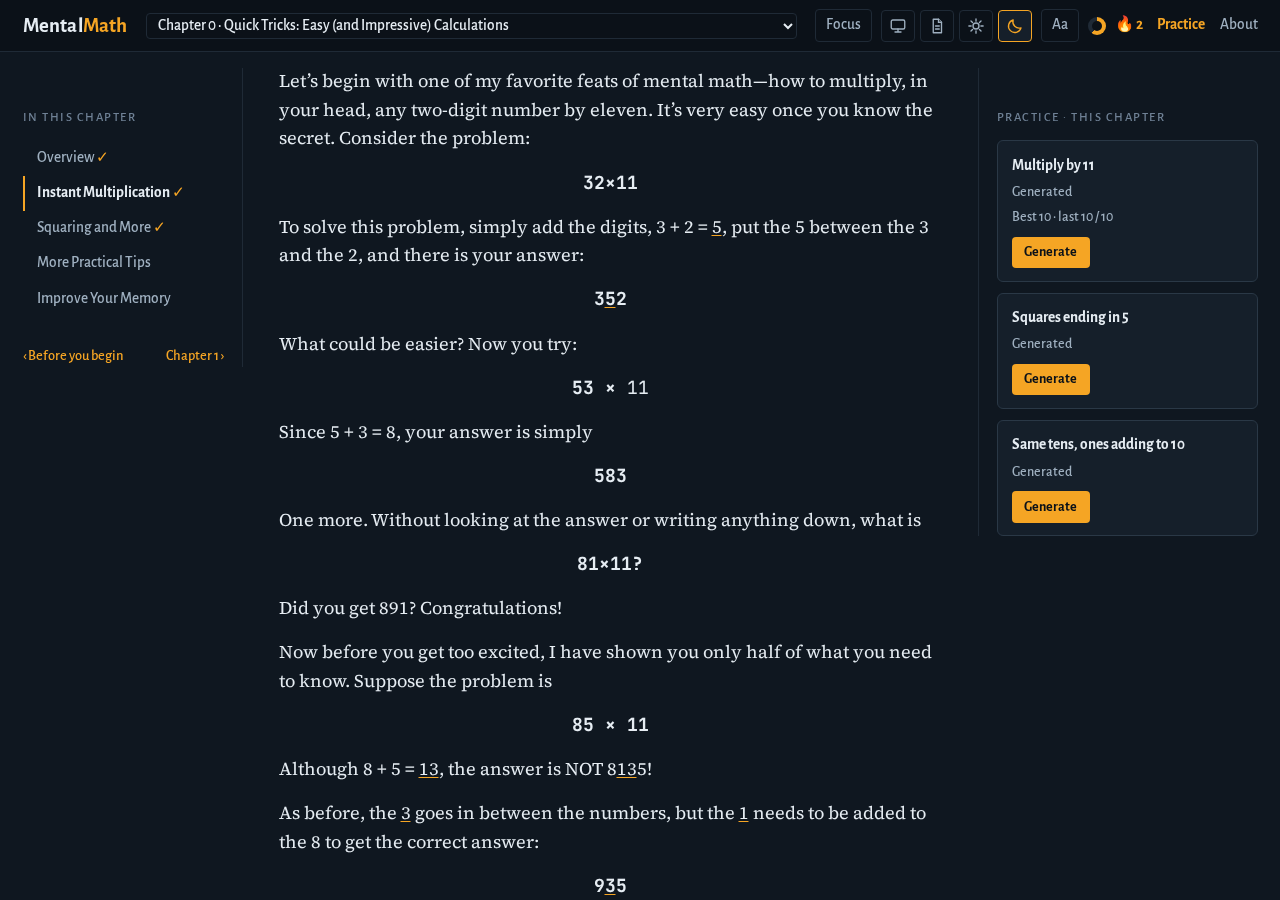
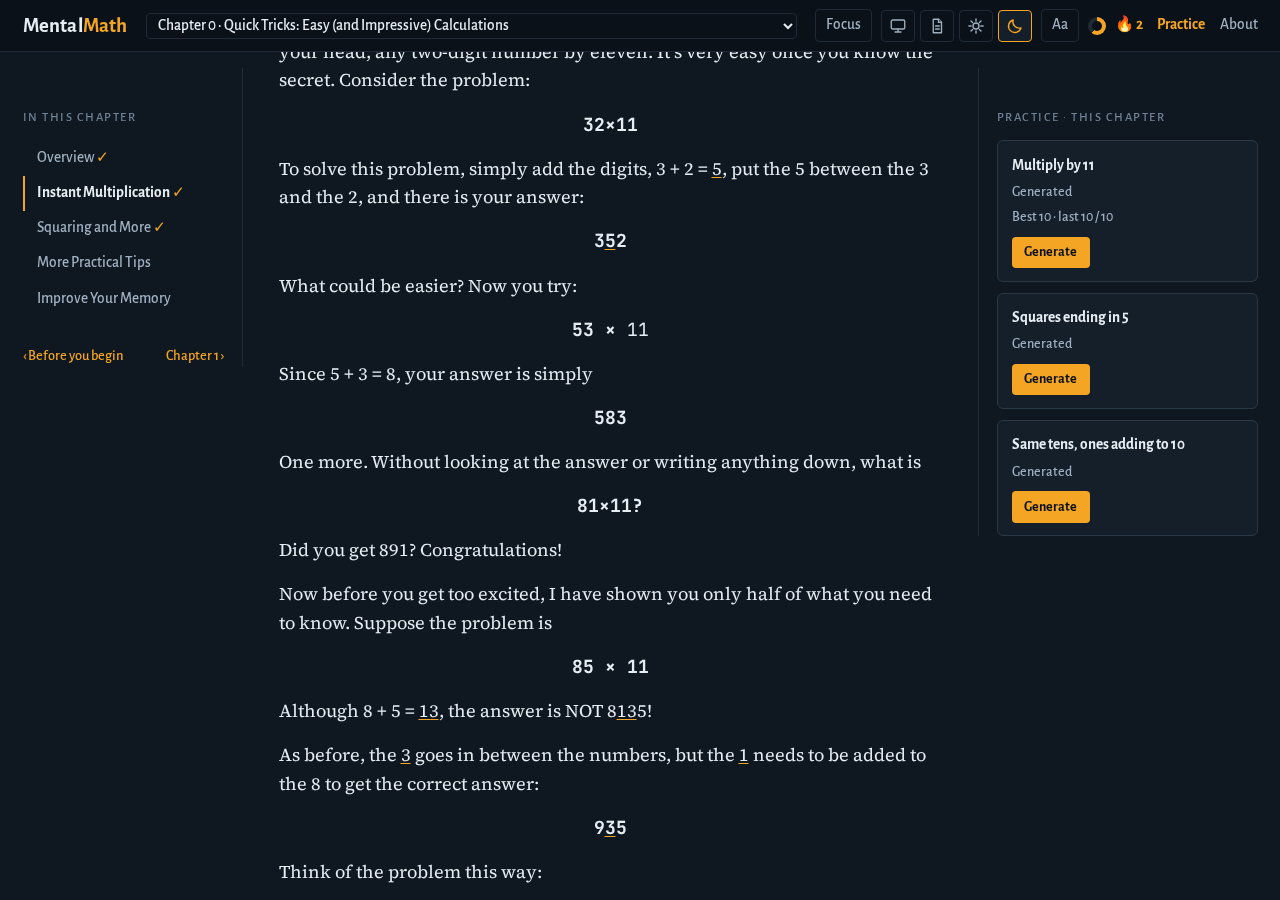
feat(reader): visible way out of focus mode
Focus persists across pages and hides the outline and the practice rail,
so a chip at the top of the text now offers to leave it.

diff --git a/e2e/reader.spec.ts b/e2e/reader.spec.ts
@@ -1,4 +1,4 @@
-import { lockUntilRead, selectTheme } from './helpers'
+import { lockUntilRead, sampleProgress, seedProgress, selectTheme } from './helpers'
 import { expect, test } from '@playwright/test'
 
 test.describe('reader', () => {
@@ -78,5 +78,18 @@ test.describe('reader', () => {
     await expect(page).toHaveURL(/\/read\/3$/)
     await page.goto('/exercises/1/left-to-right-addition')
     await expect(page).toHaveURL(/\/read\/1$/)
+  })
+
+  test('focus mode can always be left from inside the reader', async ({ page }, info) => {
+    test.skip(info.project.name !== 'desktop')
+    await seedProgress(page, {
+      ...sampleProgress,
+      settings: { ...sampleProgress.settings, focus: true },
+    })
+    await page.goto('/read/3/cubing')
+    await expect(page.locator('.col-outline')).toHaveCount(0)
+    await page.getByTestId('exit-focus').click()
+    await expect(page.locator('.col-outline')).toBeVisible()
+    await expect(page.getByTestId('practice-rail')).toBeVisible()
   })
 })

diff --git a/src/reader/ReaderView.vue b/src/reader/ReaderView.vue
@@ -204,6 +204,15 @@ function selectFromSheet(id: string) {
       </aside>
 
       <article class="col-text">
+        <button
+          v-if="focus"
+          type="button"
+          class="exit-focus"
+          data-testid="exit-focus"
+          @click="state.settings.focus = false"
+        >
+          Exit focus · show outline and practice
+        </button>
         <header class="chapter-head">
           <p class="kicker">{{ doc.kicker }}</p>
           <h1>{{ doc.title }}</h1>
@@ -340,6 +349,20 @@ function selectFromSheet(id: string) {
   font-size: 0.8rem;
 }
 
+.exit-focus {
+  font-family: var(--font-sans);
+  font-size: 0.8rem;
+  color: var(--muted);
+  background: var(--card);
+  border: 1px solid var(--card-rule);
+  border-radius: 999px;
+  padding: 0.3rem 0.8rem;
+  margin: 1.5rem 0 -0.5rem;
+}
+.exit-focus:hover {
+  color: var(--accent);
+  border-color: var(--accent);
+}
 .col-text {
   max-width: var(--measure);
   padding-top: 1.5rem;
